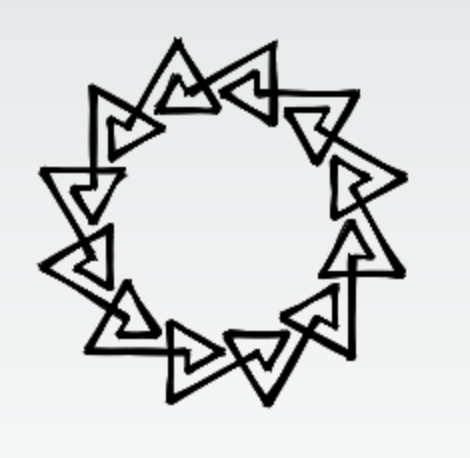
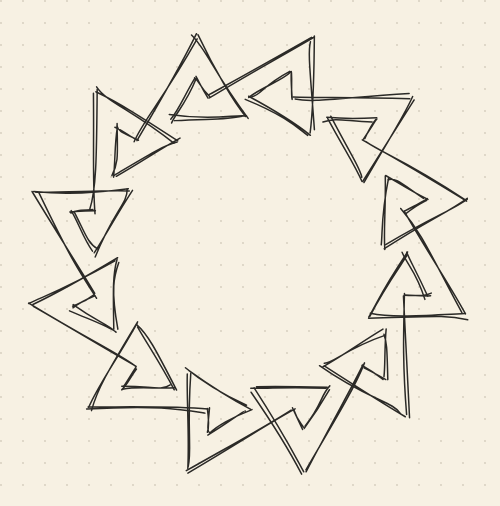
Refresh README screenshots and trim the roadmap
- Re-render the example screenshots in the new sketchbook style
- Show weed(stochastic) instead of weed(stochastic,2rounds)
- Remove finished roadmap items; reword runaway scripts as letting
  Stop interrupt a running script via a Web Worker

Changed region(s): [[0.0596, 0.0611, 0.9532, 0.9476]]

diff --git a/README.md b/README.md
@@ -11,7 +11,7 @@ Formal launguage definition can be found at `src/language/grammar.pegjs`. In a n
 See `examples/` folder.
 |Script|Output|
 |-|-|
-|**weed(stochastic,2rounds)**|![weed](screenshots/weed(stochastic,2rounds).png)|
+|**weed(stochastic)**|![weed](screenshots/weed(stochastic).png)|
 |**spiral**|![spiral](screenshots/spiral.png)|
 |**hexpiral**|![hexpiral](screenshots/hexpiral.png)|
 |**penta-doodle**|![penta-doodle](screenshots/penta-doodle.png)|
@@ -63,12 +63,8 @@ node cli/bin.js examples/spiral.plm -o out.svg
 - Language
   - Data structures (lists), mainly to make L-systems easier to write
   - Local variables: assignments inside a function are global today (by design), consider a way to keep them local
-  - Line numbers in runtime errors (e.g. unknown identifier or function)
   - Allow continuing an expression on the next line after an operator
+  - Colors, e.g. a `color red` command (needs the interpreter, canvas and CLI to carry a color per line)
   - Other cool stuff
 - UX
-  - Show parse and runtime errors in the editor, pointing at the line
-  - Fix styles
-  - Fix dark mode
-  - Panning
-  - Colors
+  - Let Stop interrupt a script that is still computing (e.g. an endless loop, which currently freezes the tab), by running the interpreter in a Web Worker
